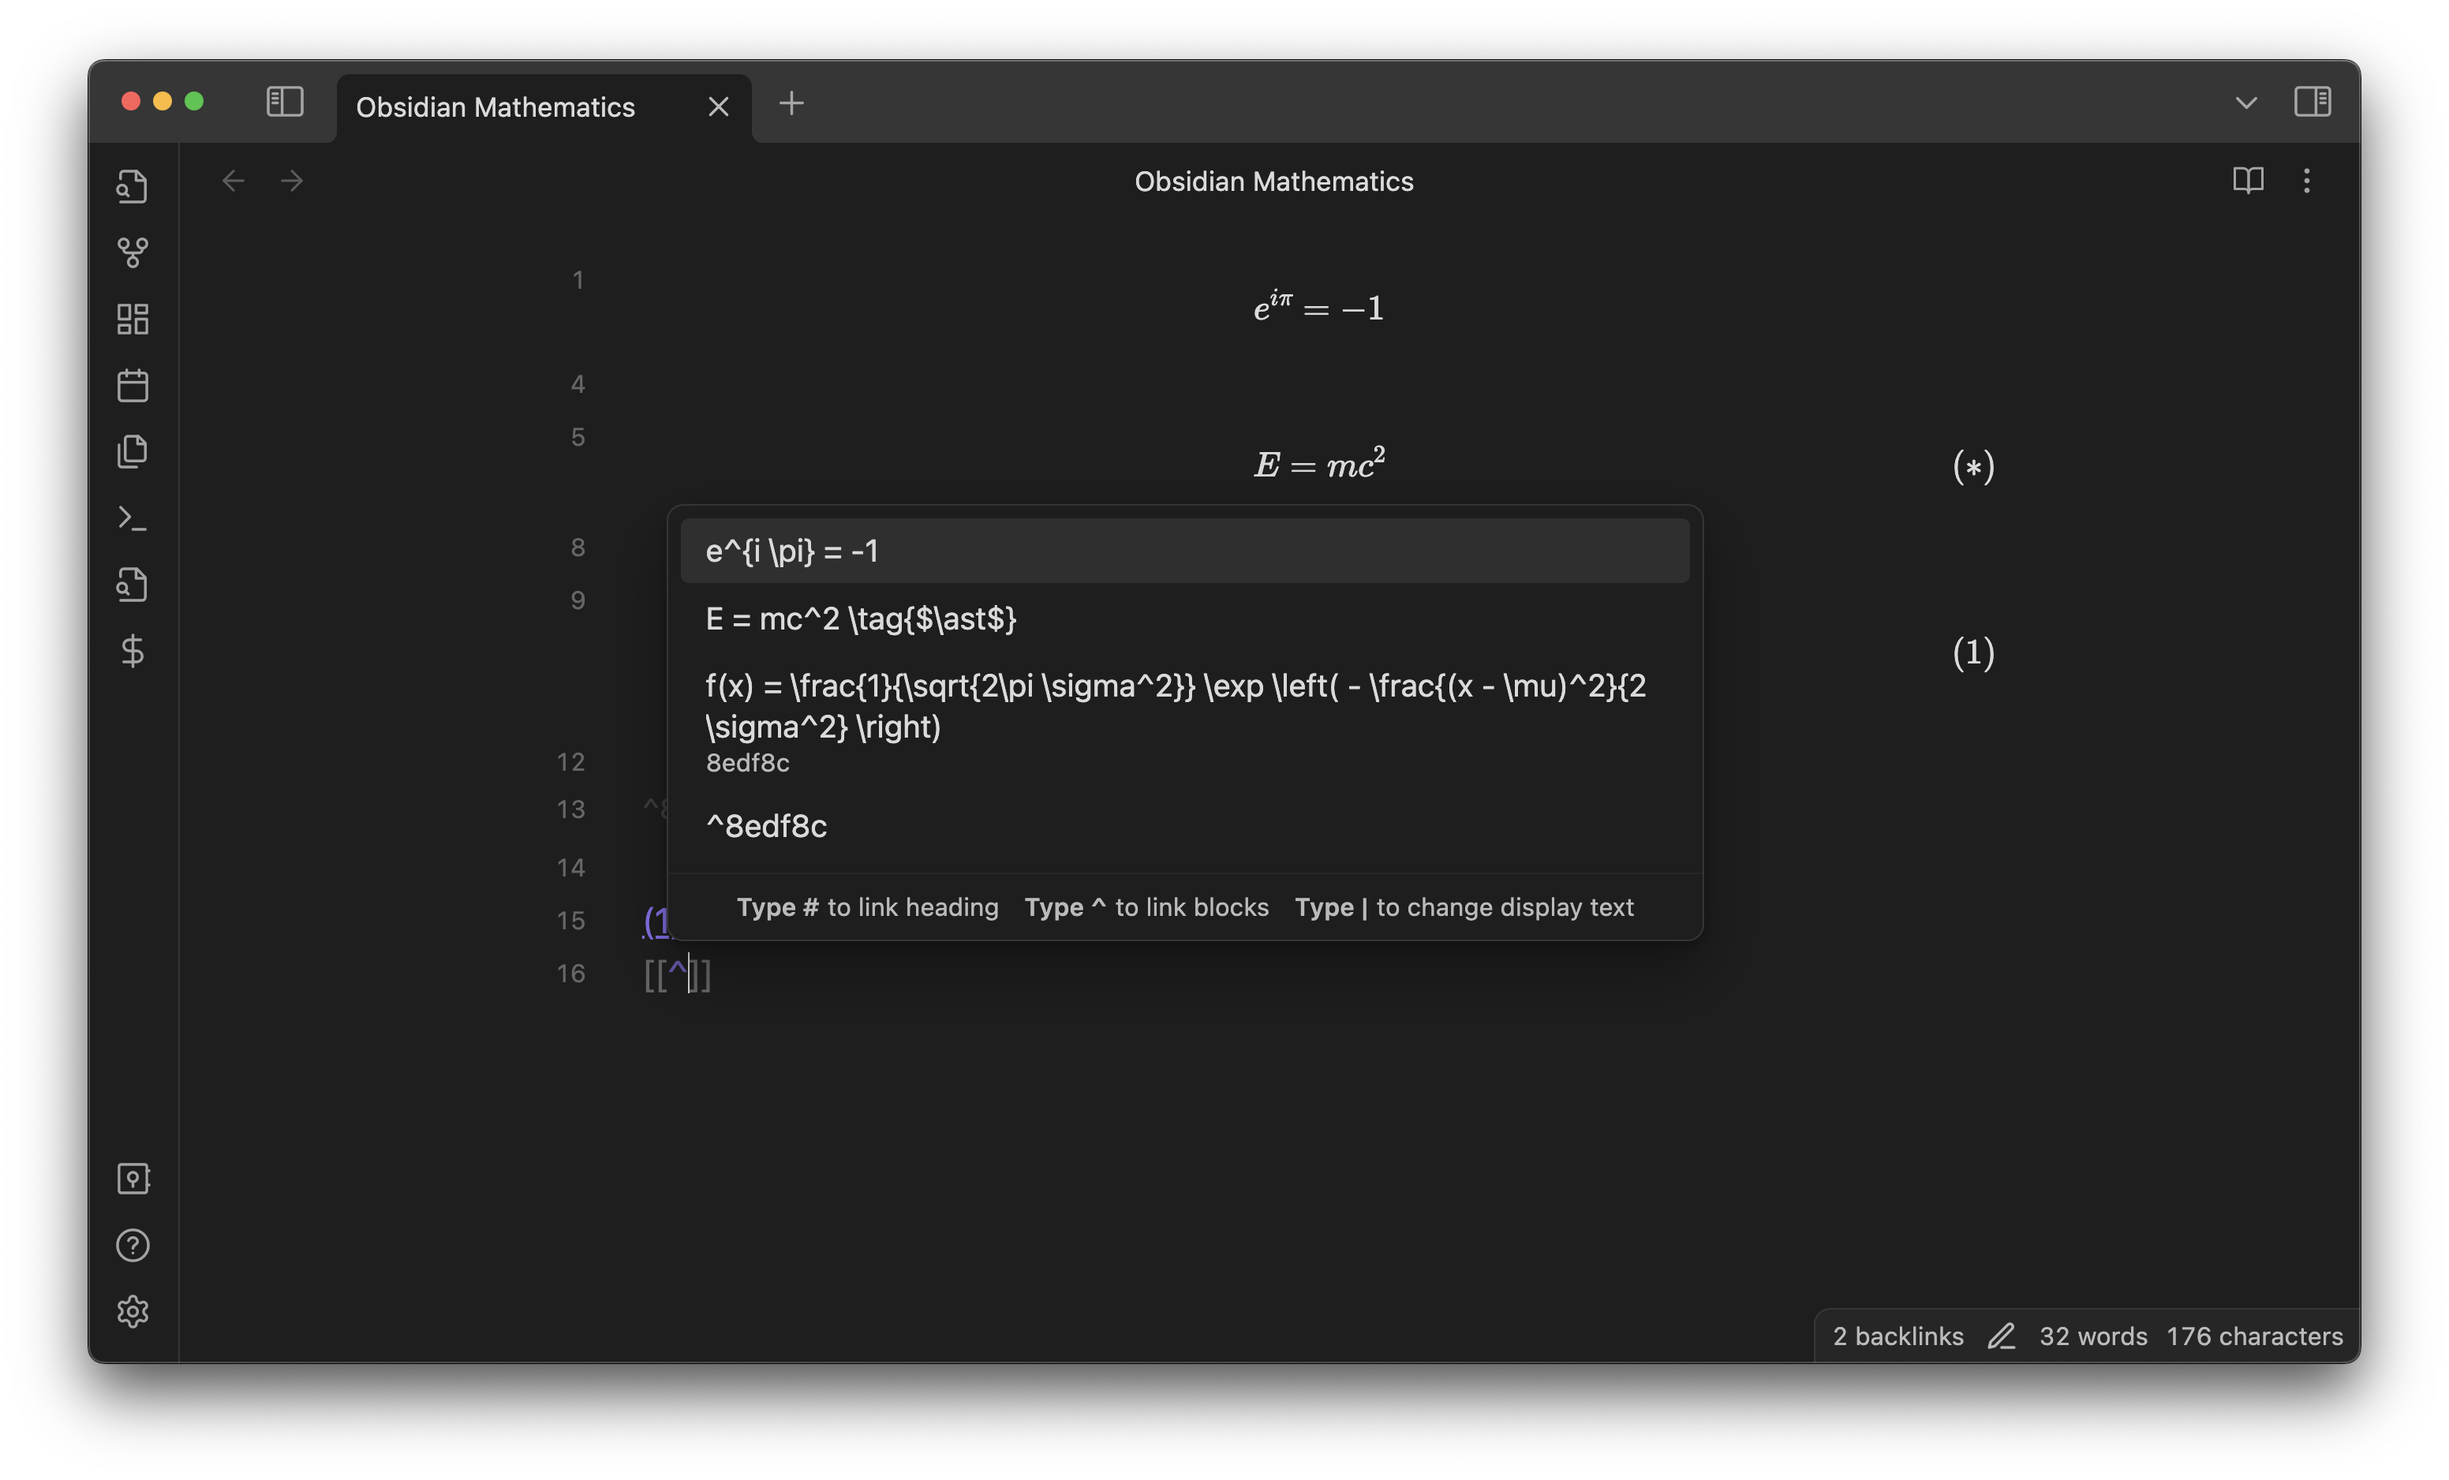
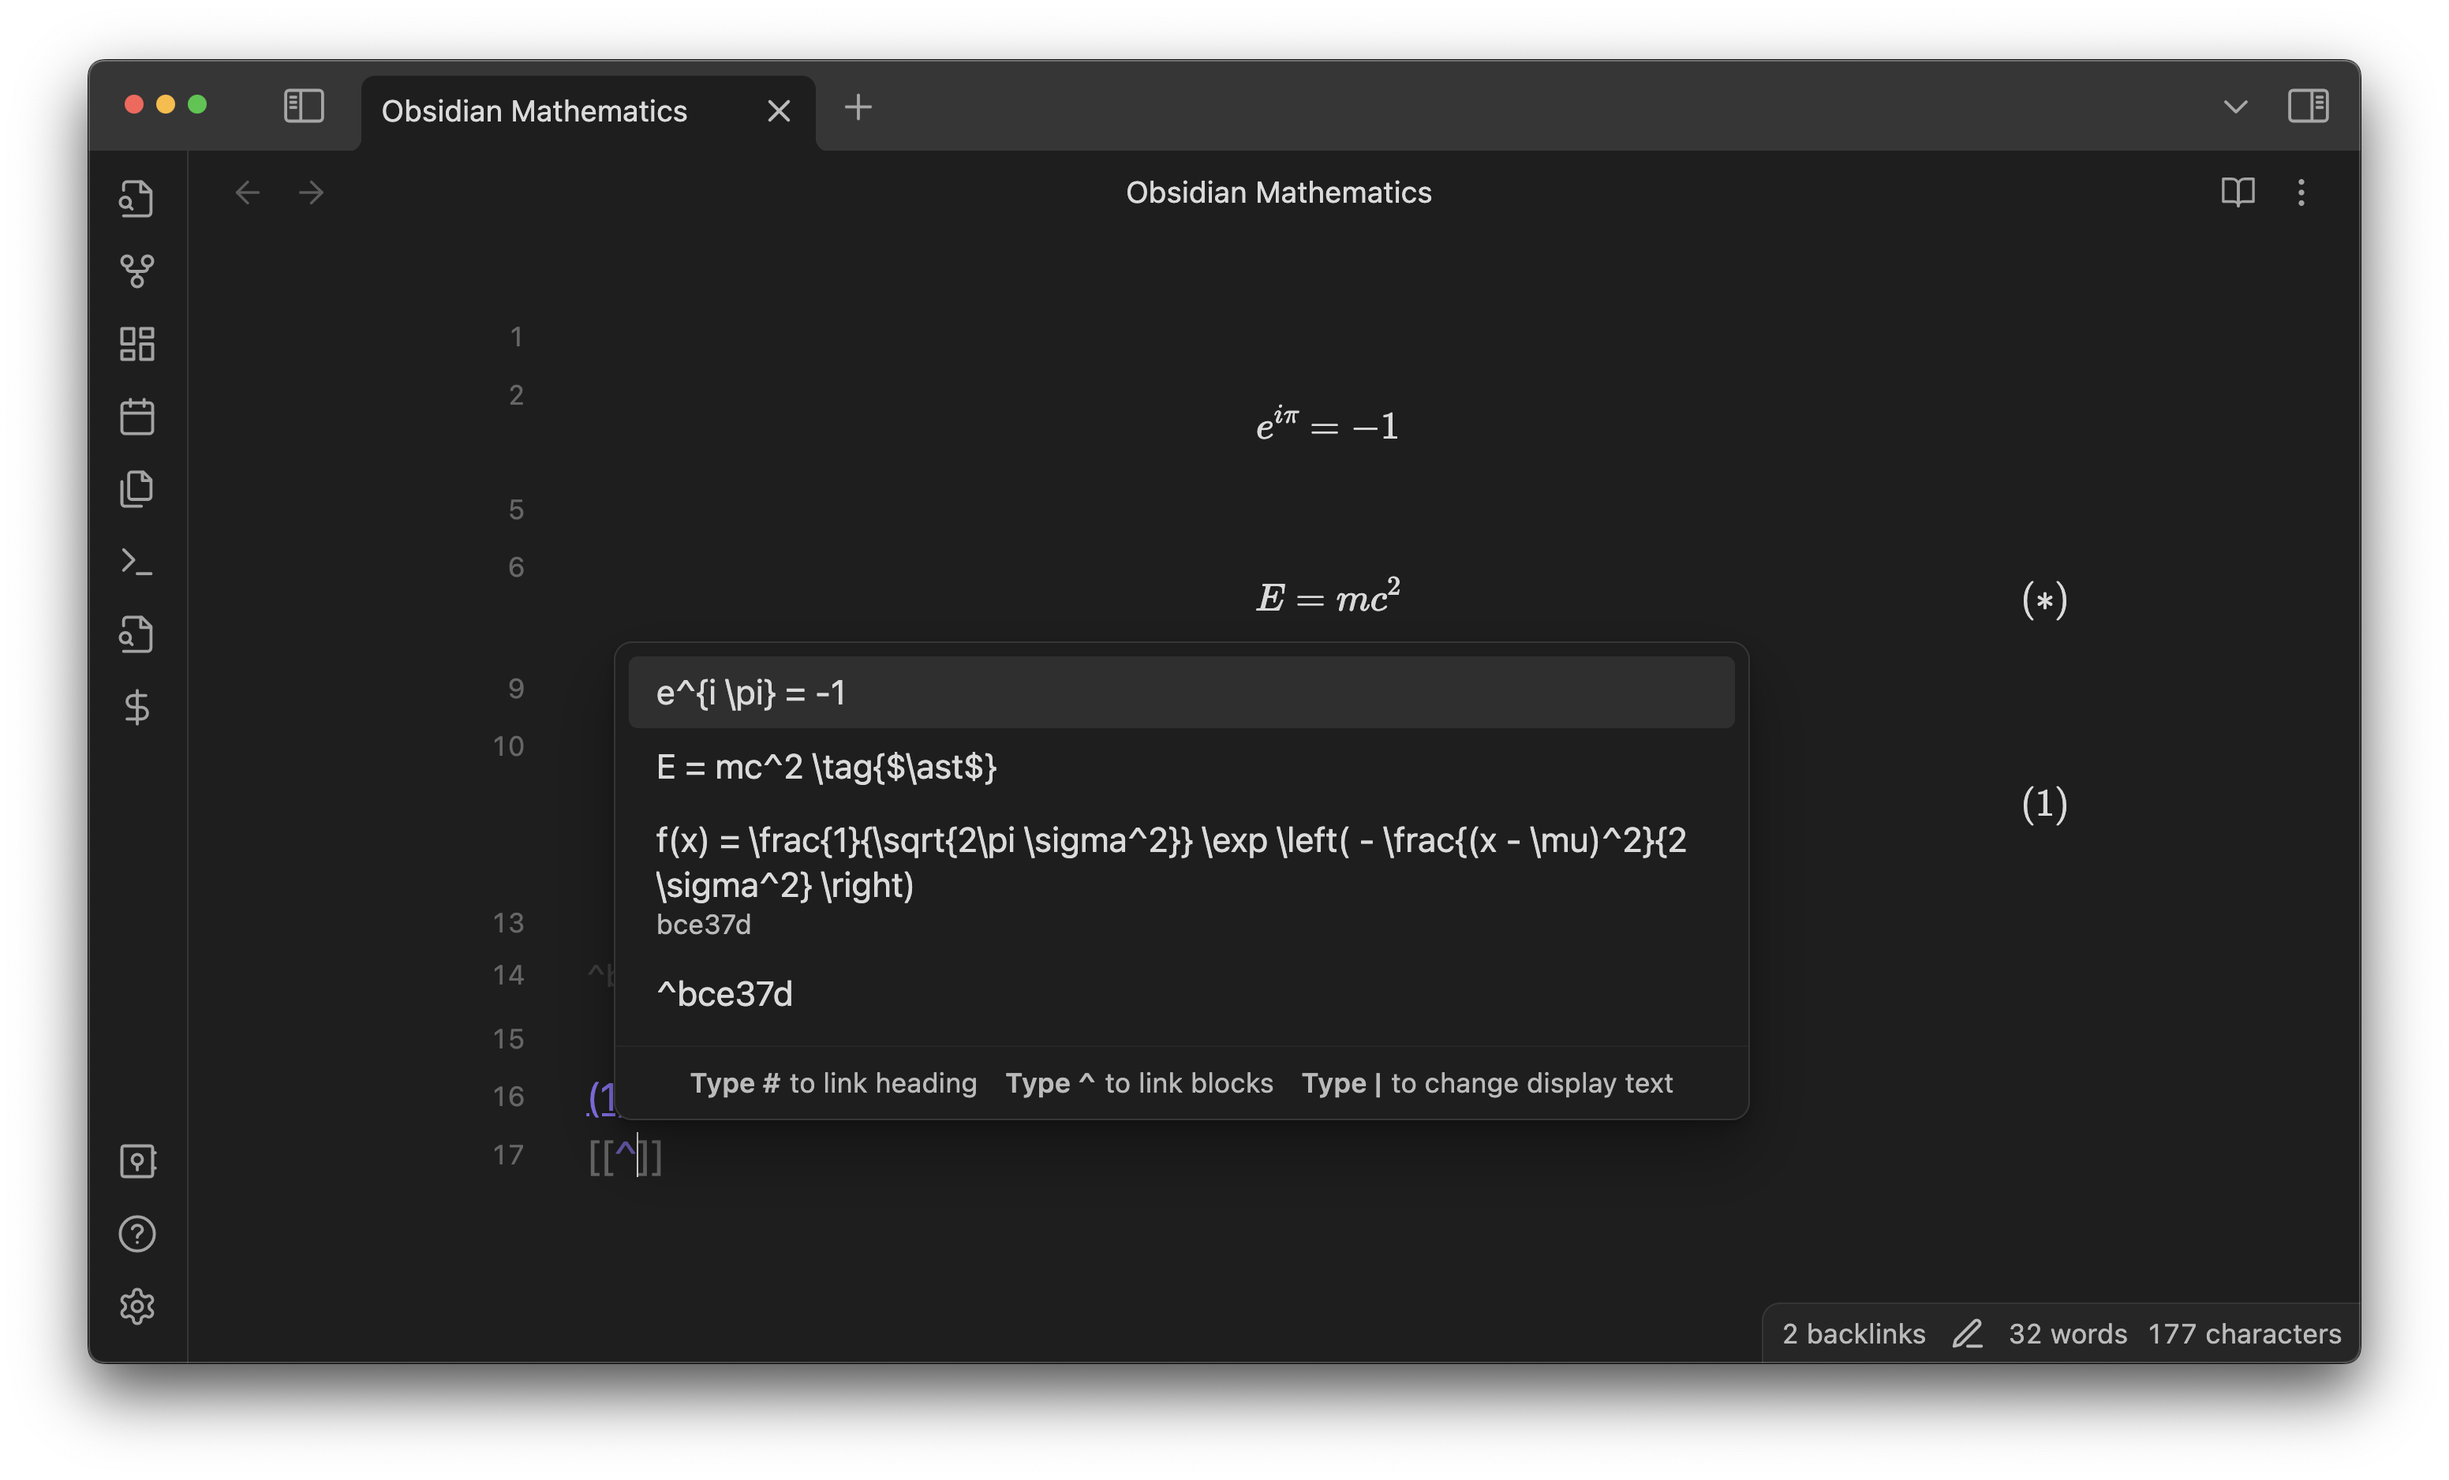
Docs: updated images

diff --git a/docs/equation-number.md b/docs/equation-number.md
@@ -34,7 +34,7 @@ Then, the equation will be numbered and the link will be displayed with the numb
 
 ![Result](fig/equation_number_2.png)
 
-Next, let's insert a link to the first equation:
+Next, let's insert a link to the equation at the top:
 
 ![Second link](fig/equation_number_3.png)
 
@@ -88,7 +88,12 @@ This is an inherent limitation of Obsidian rather than this plugin.[^1]
 ## The `align` Environment
 
 You can choose whether multi-line equations in an `align` environment are numbered _collectively as a group_ or _individually_.
-
 Go to the "Number line by line in align" section in the plugin preferences to change the current setting.
 
-![individually](fig/equation_number_align_0.png)
+![Collectively](fig/equation_number_align_0.png)
+
+![Collectively](fig/equation_number_align_1.png)
+
+When "Number line by line in align" is turned on, you can exclude a line from numbering by inserting `\nonumber`, just like in LaTeX.
+
+![Collectively](fig/equation_number_align_2.png)
